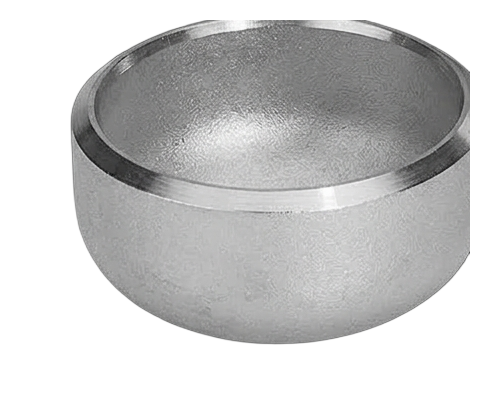
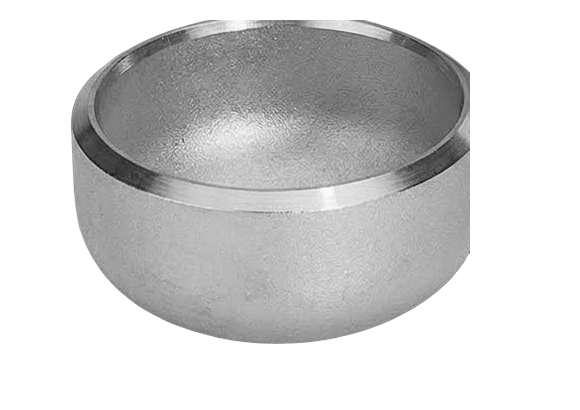
Remove Threaded (NPT) from the UI; fix gasket bore + recenter cap photo
- category_meta.dart: dropped the Threaded (NPT) CategoryMeta from the
  registry and the 'Small-Bore Connections' group, so it no longer shows
  on the home screen, in search, or anywhere else in the UI. The
  ComponentCategory.threaded enum value, its dataset, and the switch
  cases that reference it are left in place (harmless, just unreachable
  via the UI now) rather than risk a wider removal across every
  exhaustive switch on ComponentCategory for a UI-only request. Also
  dropped the now-fully-unused _brown accent color (was only used by
  this entry).
- assets/images/parts/gasket.png: the inner bore was a flat gray disc
  (the winding's far inner surface, not an actual opening) — repainted
  as a dark radial gradient so it reads as a real through-hole.
- assets/images/parts/cap.png: shifted left within its frame (added
  padding on the right instead of re-centering the crop, so the actual
  pixels are untouched).

diff --git a/lib/core/category_meta.dart b/lib/core/category_meta.dart
@@ -52,7 +52,6 @@ class CategoryRegistry {
   static const _pink = Color(0xFFFF375F);
   static const _red = Color(0xFFFF453A);
   static const _yellow = Color(0xFFFFD60A);
-  static const _brown = Color(0xFFC29764);
   static const _cyan = Color(0xFF6AC4DC);
   static const _green = Color(0xFF30D158);
   static const _skyBlue = Color(0xFF409CFF);
@@ -143,15 +142,6 @@ class CategoryRegistry {
       dataset: () => PipingMasterCatalog.socketWelds,
     ),
     CategoryMeta(
-      category: ComponentCategory.threaded,
-      label: 'Threaded (NPT)',
-      standard: 'ASME B16.11',
-      icon: CupertinoIcons.gear,
-      color: _brown,
-      subOptionKind: SubOptionKind.none,
-      dataset: () => PipingMasterCatalog.threadeds,
-    ),
-    CategoryMeta(
       category: ComponentCategory.weldolet,
       label: 'Weldolets',
       standard: 'MSS SP-97',
@@ -204,7 +194,6 @@ class CategoryRegistry {
     ]),
     CategoryGroup('Small-Bore Connections', _yellow, [
       of(ComponentCategory.socketWeld),
-      of(ComponentCategory.threaded),
     ]),
     CategoryGroup('Branch Outlets (MSS SP-97)', _cyan, [
       of(ComponentCategory.weldolet),
